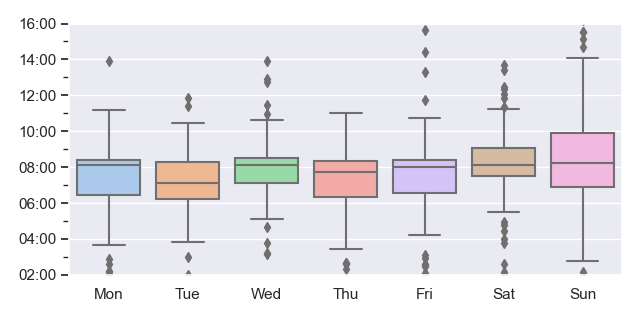
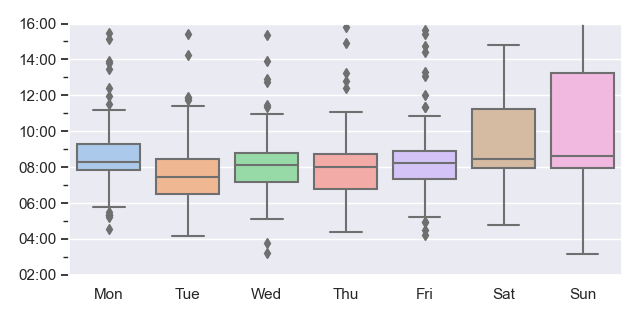
merge adjacent events in duration-by-wake-weekday, too (bug)
Originally from commit 838cc40.
This transformation is required in any analysis that is sensitive to
individual event duration.

diff --git a/_lib/levent.py b/_lib/levent.py
@@ -1,3 +1,4 @@
+import collections
 import datetime
 import json
 import typing
@@ -48,6 +49,53 @@ def parse_datetime(stamp):
 
     """
     return datetime.datetime.strptime(stamp, PARSE_SAA_TIME_FORMAT)
+
+
+def merge_adjoining(it, closeness=datetime.timedelta(hours=4)):
+    """Merge adjoining events from iterator it.
+
+    Two events, a and b, are adjoining if b starts when a ends.
+    Iterator it must yield events in ascending chronological order.
+    """
+    # How do adjoining events occur in the dataset?
+    # I suspect they are an artefact of the following real-world pattern:
+    #
+    #   An alarm is set to activate after ~8h of sleep.
+    #   I go to sleep.
+    #   ~8h later, the alarm activates, and is dismissed.  (No snooze.)
+    #   -> The first event is recorded.
+    #   I sleep some more. :)
+    #   Later, after waking naturally without an alarm,
+    #   I add a new sleep event to record the additional time spent asleep.
+    #   -> The second event is recorded.
+    #
+    # Such events are almost always perfectly adjoining.
+    # The first event ends on the same minute the next event starts.
+    #
+    # Events are not always perfectly adjoining -- for reasons unknown.
+    # We merge an event with its preceding event if they are only separated by
+    # a small number of hours.  closeness defines the merge threshold.
+
+    adj = collections.deque()
+    for next_event in it:
+        if not adj:
+            adj.append(next_event)
+            continue
+
+        last_event = adj[-1]
+        if next_event.since - last_event.until <= closeness:
+            adj.append(next_event)
+            continue
+
+        # last_event not adjacent to next_event; flush
+        yield Event(since=adj[0].since, until=adj[-1].until)
+        adj.clear()
+        adj.append(next_event)
+        continue
+
+    if adj:
+        yield Event(since=adj[0].since, until=adj[-1].until)
+        adj.clear()
 
 
 if __name__ == "__main__":
